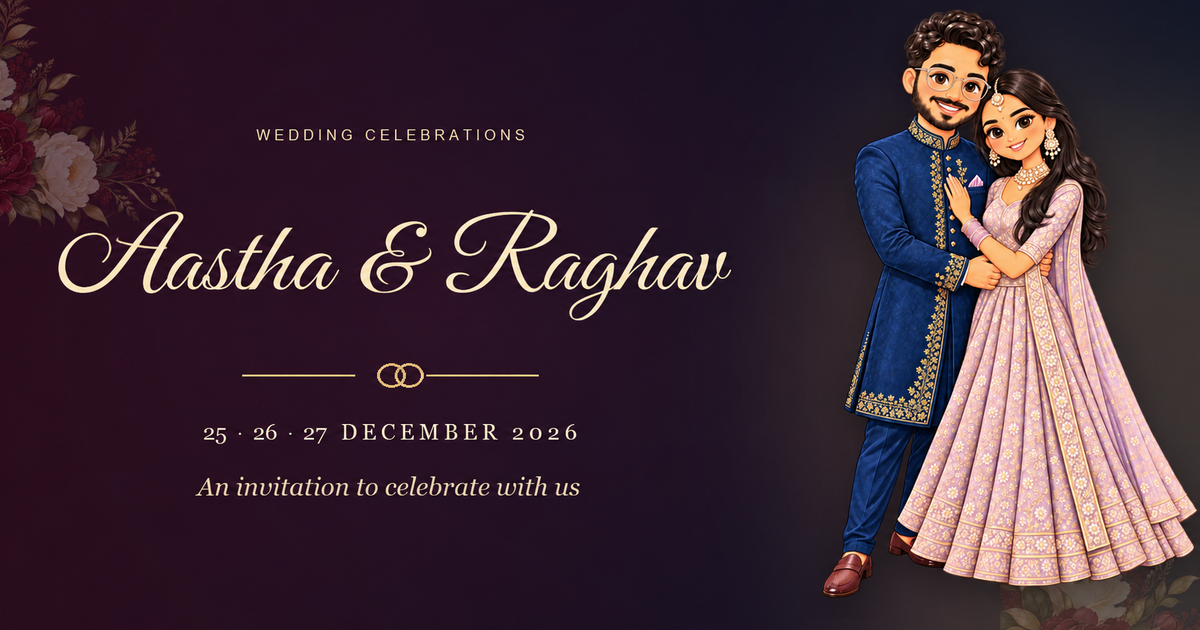
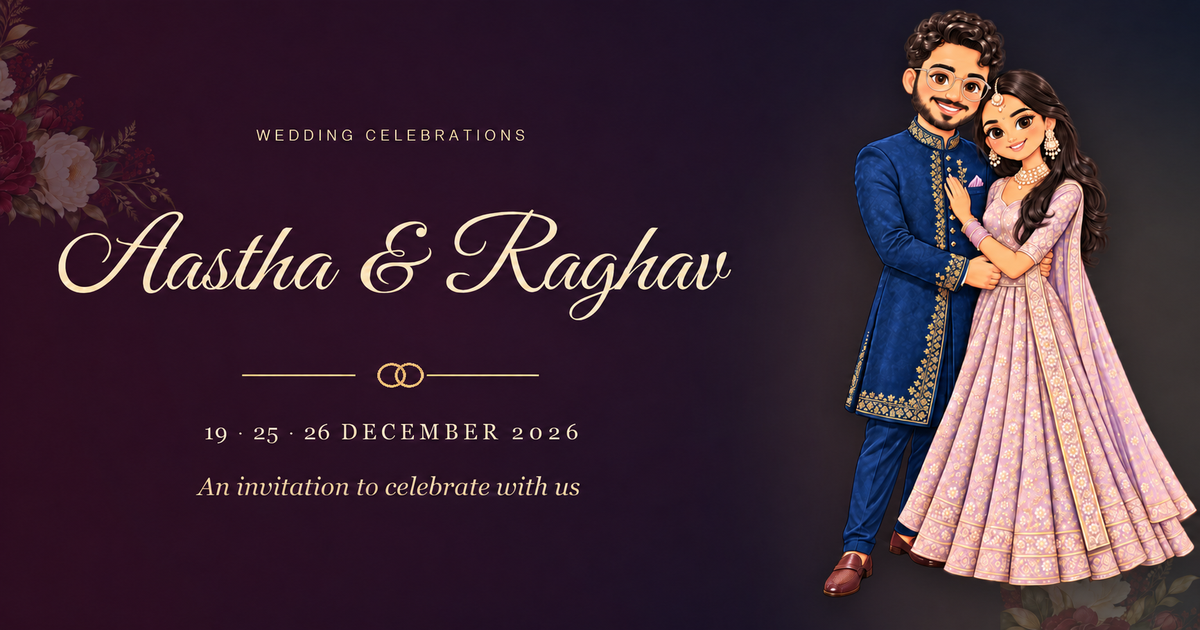
Update bride invitation event details

diff --git a/bride-profile.js b/bride-profile.js
@@ -6,7 +6,7 @@
   document.documentElement.classList.add("bride-mode");
   document.title = "Aastha & Raghav — Wedding Celebrations";
 
-  const description = "Join Aastha and Raghav for their wedding celebrations, December 19 and 25–27, 2026.";
+  const description = "Join Aastha and Raghav for their wedding celebrations, December 19, 25 and 26, 2026.";
   document.querySelector('meta[name="description"]')?.setAttribute("content", description);
   document.querySelector('meta[property="og:description"]')?.setAttribute("content", description);
   document.querySelector('meta[name="twitter:description"]')?.setAttribute("content", description);
@@ -15,6 +15,10 @@
   if (coverTitle) {
     coverTitle.innerHTML = '<span>Aastha</span><span class="and">&amp;</span><span>Raghav</span>';
   }
+  const coverDate = document.querySelector(".cover-date");
+  if (coverDate) coverDate.textContent = "19, 25 & 26 December 2026";
+  const envelopeDate = document.querySelector(".env-date");
+  if (envelopeDate) envelopeDate.textContent = "19 · 25 · 26 December 2026";
 
   const family = document.querySelector(".family");
   const invitation = family?.querySelector(".reveal");
@@ -56,5 +60,13 @@
       <p class="venue" style="--i:3">Shri Guru Singh Sabha Gurudwara<br />Sector 18, Noida – 201301</p>
     </div>`;
   document.getElementById("engagement")?.before(shabad);
+  const engagement = document.getElementById("engagement");
+  if (engagement) {
+    const schedule = engagement.querySelectorAll(".schedule li");
+    if (schedule[0]) schedule[0].textContent = "Shagan & Ring Ceremony – 5 PM onwards";
+    const venue = engagement.querySelector(".venue");
+    if (venue) venue.innerHTML = "Aquaden Lawn - Oodles<br />Chattarpur, New Delhi";
+  }
+  document.getElementById("reception")?.remove();
   document.querySelector(".footer").textContent = "Aastha & Raghav · December 2026";
 })();
